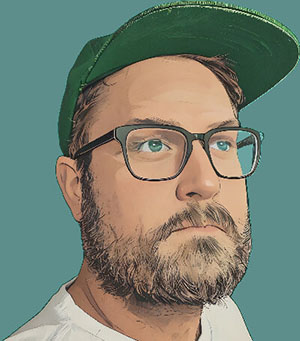
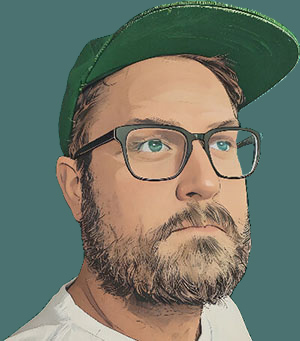
minor updates

diff --git a/pages/index.js b/pages/index.js
@@ -85,7 +85,7 @@ export default function About() {
             User Experience Design and based in Portland, Oregon.
           </p>
           <Image
-            src="./gn.jpg"
+            src="/gn.jpg"
             alt="graphic illustration style picture of Gregory Noack"
             width={300} // Specify dimensions to improve layout shift
             height={341}
